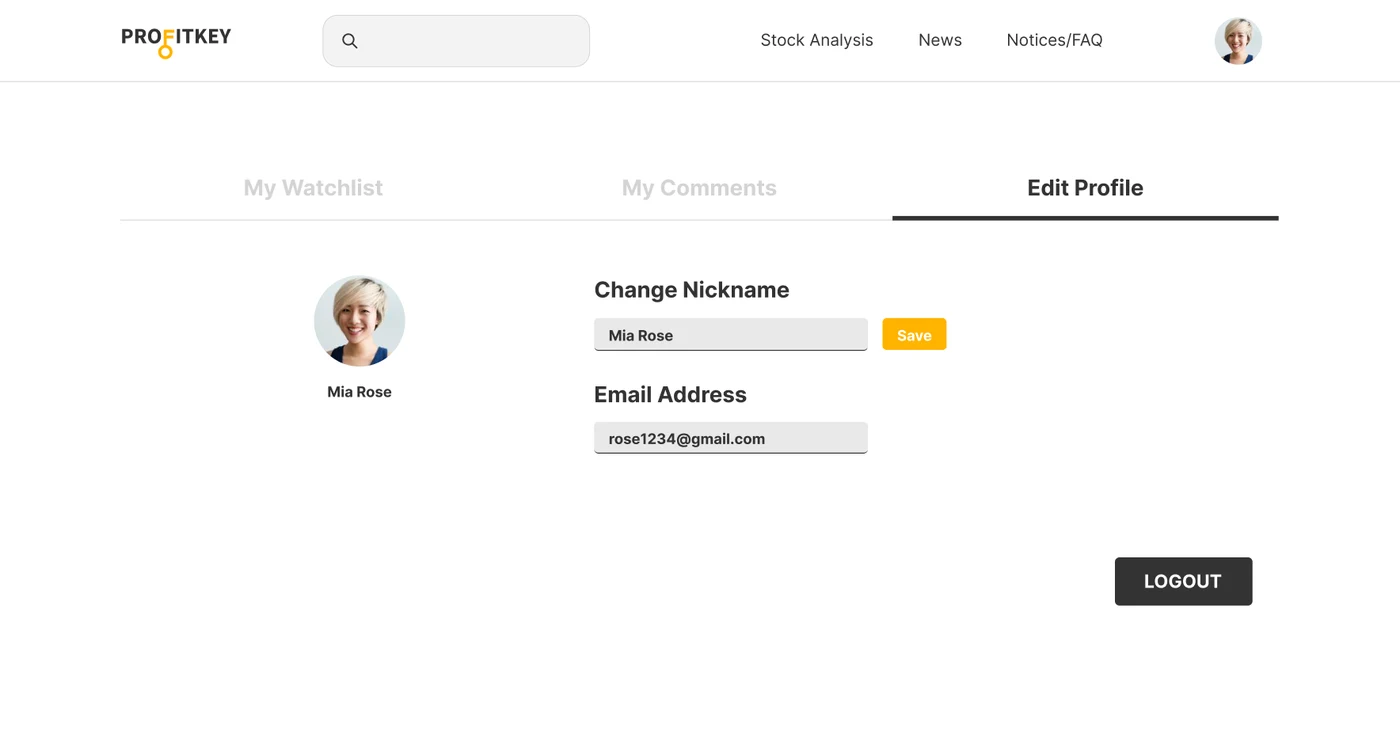
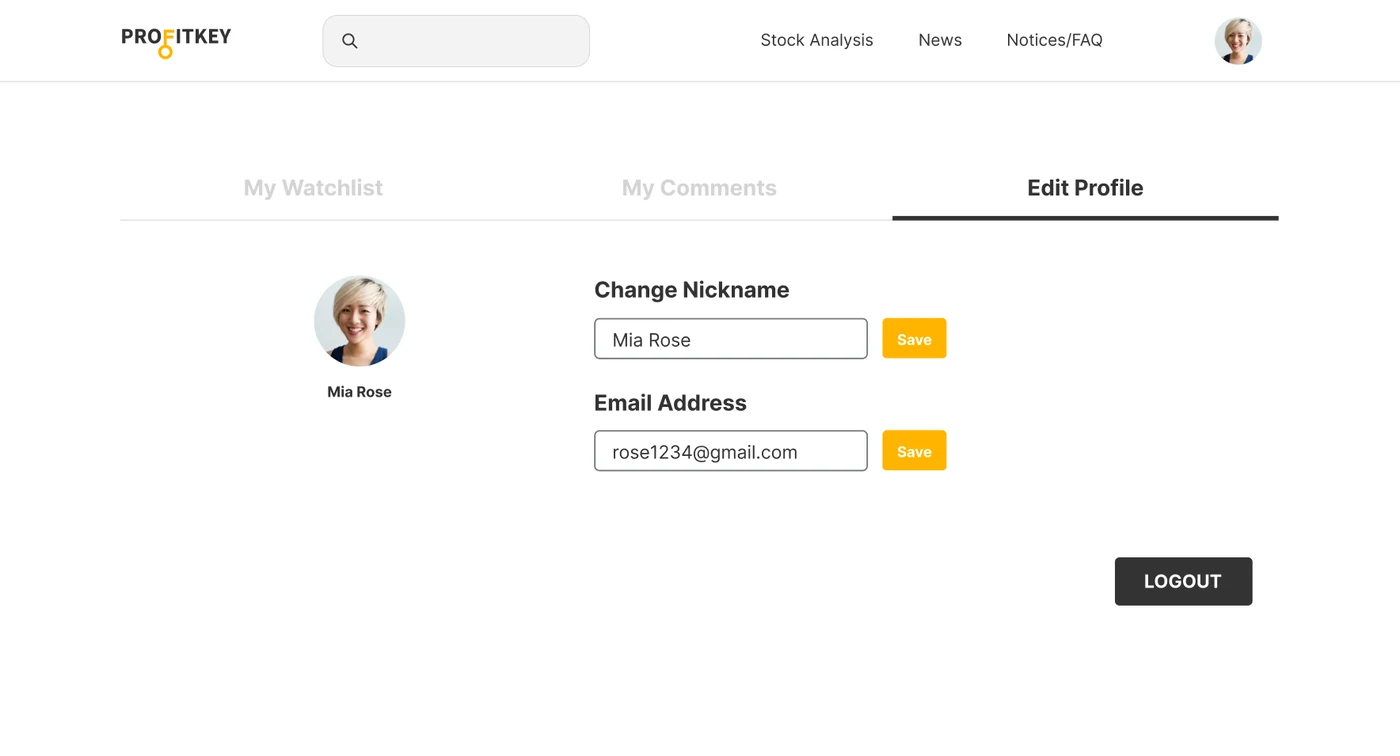
Restyle PROFITKEY Edit Profile fields and set the review cards side by side

Changed region(s): [[0.3993, 0.5172, 0.6757, 0.6389], [0.43, 0.4259, 0.6757, 0.4868]]

diff --git a/src/data/projects.ts b/src/data/projects.ts
@@ -463,7 +463,7 @@ export const projects: Project[] = glueAll<Project[]>([
               {
                 title: 'Edit profile',
                 note: 'Members can change their nickname and email address, or log out.',
-                figure: { ...screen('profitkey-en-edit-profile', 'PROFITKEY edit profile page: change nickname and email address, with a log out button.', 'Edit profile', 1400, 756), tall: true },
+                figure: { ...screen('profitkey-en-edit-profile', 'PROFITKEY edit profile page: nickname and email address fields, each with a yellow Save button, and a log out button.', 'Edit profile', 1400, 756), tall: true },
               },
               {
                 title: 'LOGIN',
@@ -487,11 +487,6 @@ export const projects: Project[] = glueAll<Project[]>([
                 title: 'How I worked with engineers',
                 body: 'As the **only designer** on a team of engineers, I had **no one to talk design through with**, which I really missed. When design came up, the engineers often preferred the version that was **easier to build**, so we **disagreed** at times. They had good reasons, so I **respected the team’s view** while still finding room to **care for the design**. It showed me how hard it is to **build a website together through discussion**, and I learned a lot from it. I also enjoyed balancing a **clean, attractive UI** with the UX question of **what would help investment beginners** find their way into stocks.',
               },
-            ],
-          },
-          {
-            kind: 'cards',
-            items: [
               {
                 title: 'Learning Outcomes',
                 body: 'In user interviews, beginners told me it is **hard to start investing** right away, so I designed every screen from that view to make stocks **easier to approach**, and I grew a lot as a designer through it. In **usability testing with 12 users over 3 days**, people said the **AI comments made stocks easier to understand**, but some also **doubted whether they could trust the AI**. PROFITKEY’s picks and comments come from combined market data, so the next challenge is to **help users trust the AI’s recommendations**.',
